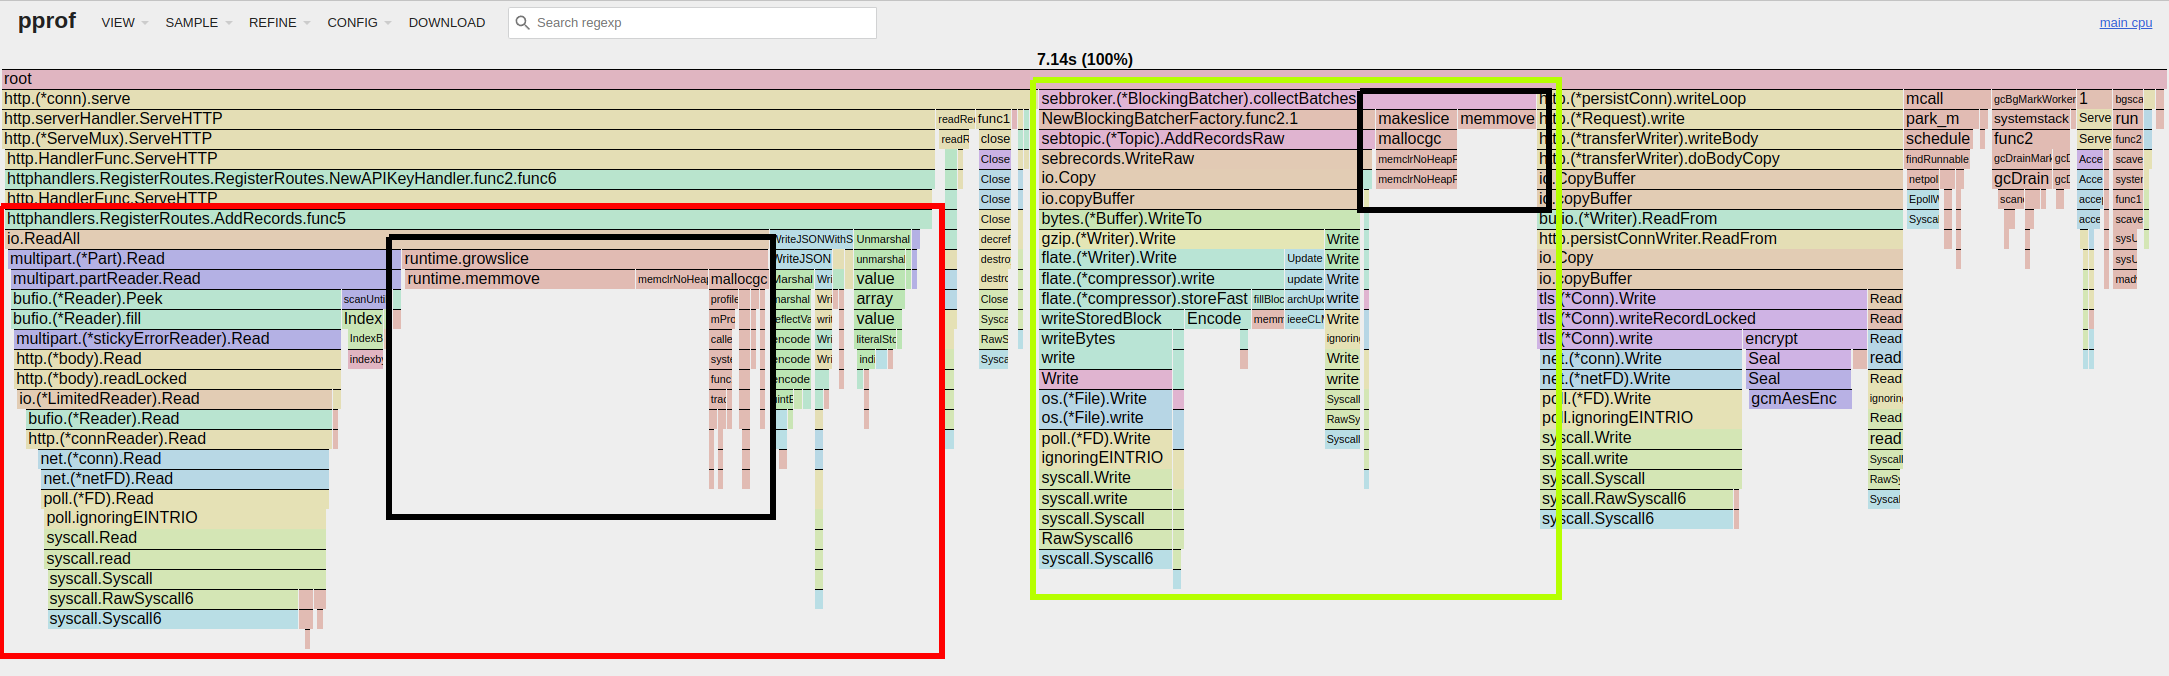
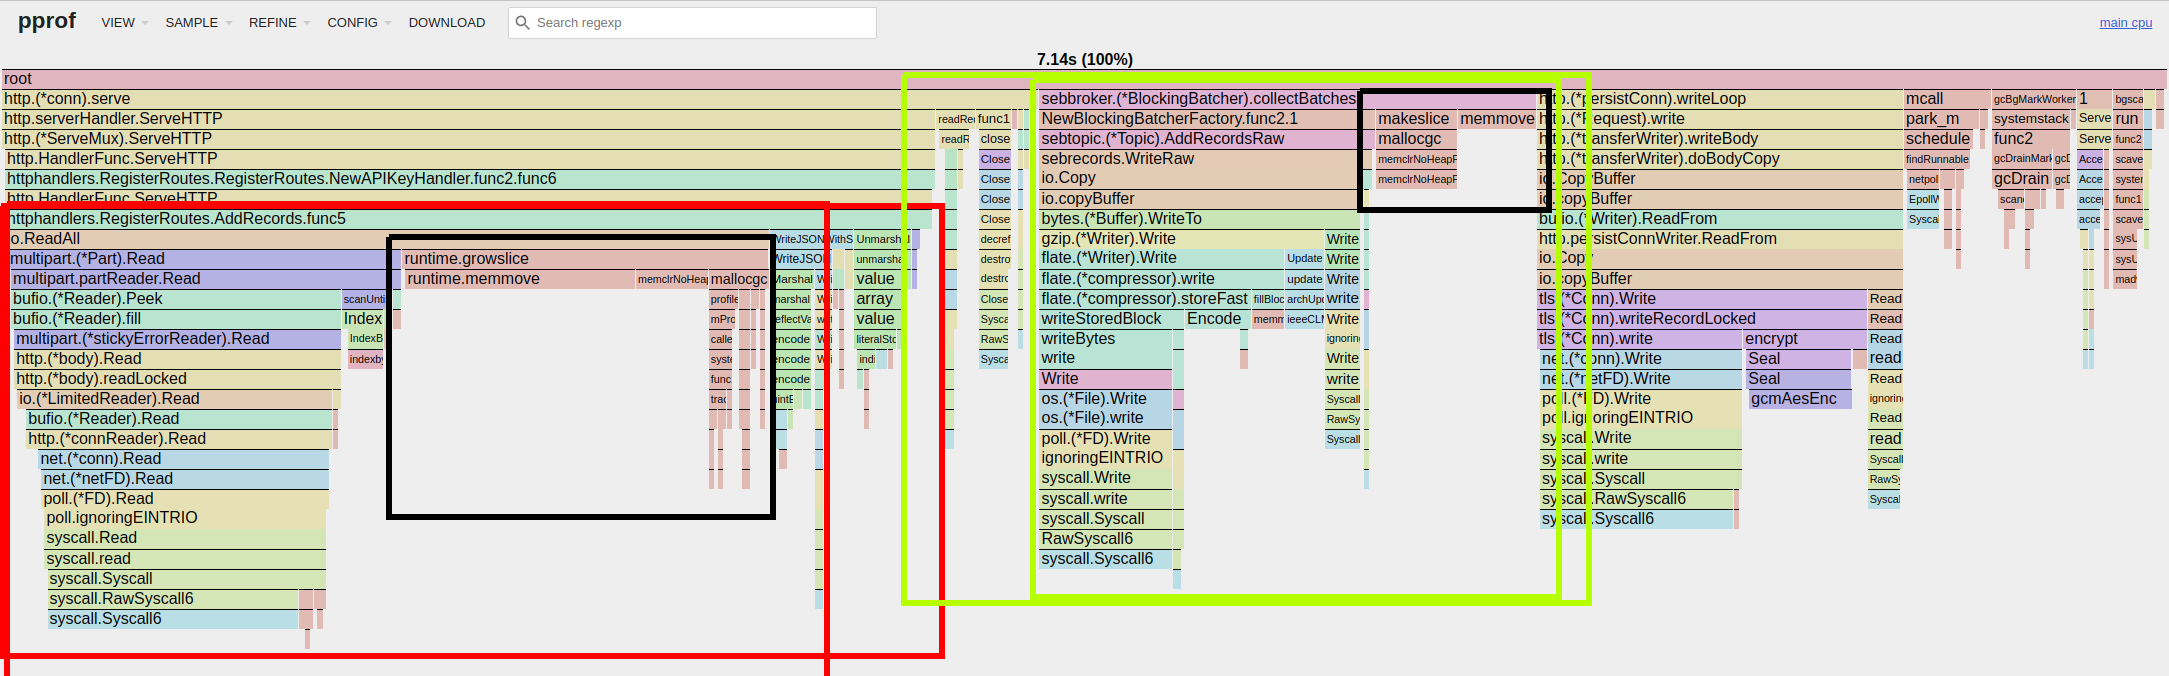
2024-09-10: read optimizations

Changed region(s): [[0.4016, 0.8698, 0.7414, 0.9009], [0.4016, 0.0932, 0.7414, 0.1243]]

diff --git a/_posts/2024-09-10-seb-tiger-style-read-path.md b/_posts/2024-09-10-seb-tiger-style-read-path.md
@@ -1,0 +1,225 @@
+---
+layout: post
+title:  "Simple event broker: data serialization is expensive"
+date:   2024-09-10 15:25:00 +0200
+tags: [event-broker, benchmarking, seb, performance]
+published: true
+---
+
+In the [last post](/2024/07/10/seb-tiger-style/) I described my weekend project of using advice from [Tiger Style](https://github.com/tigerbeetle/tigerbeetle/blob/main/docs/TIGER_STYLE.md) to optimize the write path of [Seb](https://github.com/micvbang/simple-event-broker).
+Here, we found that data serialization and memory allocations were big contributors to the application being slower than it could be, and profiling helped us identify places on the write path where batching and buffer reuse could greatly improve the throughput. With a few small changes, we doubled the number of records that Seb can write to disk per second!
+
+In this post we're going to use those learnings as a guide to do the same thing on the read path. In order for the posts not to be almost identical, this time we'll focus on how seemingly minor changes to function signatures can have major impacts on performance.
+
+## Overview
+
+Since we already covered how to record performance profiles in the last post, we'll skip it here. Instead we'll go directly to a high-level picture of Seb's read path, and then look at a profile of the code (at [19a5bde1](https://github.com/micvbang/simple-event-broker/tree/19a5bde1f5359b2b1c556bb7df288273a6b416d8)).
+
+A high-level overview of Seb's read path:
+
+![High-level overview of Seb's read path](/static/posts/2024-09-10-seb-read-performance/architecture_seb_read_path.png)
+
+Here, we see that the read path starts with an incoming HTTP request which is handled by an [HTTP handler](https://github.com/micvbang/simple-event-broker/blob/19a5bde1f5359b2b1c556bb7df288273a6b416d8/internal/httphandlers/getrecords.go#L22) `(1)` and sent to the [Broker](https://github.com/micvbang/simple-event-broker/blob/19a5bde1f5359b2b1c556bb7df288273a6b416d8/internal/sebbroker/broker.go#L26) `(2)`. The Broker ensures that a relevant instance of [Topic](https://github.com/micvbang/simple-event-broker/blob/19a5bde1f5359b2b1c556bb7df288273a6b416d8/internal/sebtopic/topic.go#L38) exists and hands it the request `(3)`. The Topic then checks to see if the requested records are available in the locally cached batches `(3.1)`, fetching any missing batches from S3 `(3.2)` and caching them on disk. The Topic then finally uses the [Parser](https://github.com/micvbang/simple-event-broker/blob/19a5bde1f5359b2b1c556bb7df288273a6b416d8/internal/sebrecords/records.go#L81) to extract the requested records `(4)`, which might span one or more files in the cache. Finally it sends the retrieved records all the way back up the stack, where the result is turned back into an HTTP response and sent back over the network to the caller.
+
+It's important to mention here that, just like was the case on the write path, the HTTP response is encoded using multipart form-data with one part per record. As was evident when we looked at the write path, this is highly inefficient. To give you an intuition of what multipart form-data looks like, here's an example HTTP request:
+
+```
+POST /records HTTP/1.1
+Host: localhost:51313
+Content-Type: multipart/form-data;boundary="boundary"
+
+--boundary
+Content-Disposition: form-data; name="0"
+
+record-0-data
+--boundary
+Content-Disposition: form-data; name="1"
+
+record-1-data
+--boundary--
+```
+
+## Profiling
+
+Like we did in the last post, we'll use Go's excellent profiling tools to identify where Seb is spending its time on the CPU. In order to do this, we need to put some load on the system. The first task of this project therefore was to implement a simple read benchmark that is easy to run. I won't go into details of the implementation here, but I will note that having a tool to generate reliable, consistent load on your system makes performance optimizations _so_ much easier to do, and gives us much better odds of making actual improvements. I highly recommend investing the time in building a tool like this for your next project!
+
+While using the read benchmark to put some load on the system, I recorded a profile of Seb which resulted in the following flame graph:
+
+![Profiling Seb, retrieving records, before](/static/posts/2024-09-10-seb-read-performance/profiling-mime-multipart-slow.png)
+
+I've highlighted multipart form-data formatting-related code using red boxes, and memory-related operations (allocations, copying, and garbage collection) using black boxes. We saw exactly this behavior on the write path in the last post as well, so if you read that one this result should come as no surprise. What we're seeing is that we're spending loads of time writing all of the records according to the multipart form-data format, generating a lot of garbage while doing so.
+
+Looking at the left-most red box on the flame graph, we see that most of its time is spent in `Syscall6`. Going a bit up the stack, we see that this originates from `net.(*conn).Write`, i.e. writing bytes to a network socket. We want to get a response to our callers, so this work looks productive and isn't something we're trying to eliminate.
+
+Looking at the right-most red box, we see that `multipart.(*Writer).CreateFormField` spends a lot of time serializing our HTTP payload using `fmt.Fprintf` and `fmt.Sprintf`, both of which causes a lot of allocations and creates tons of work for the garbage collector.
+
+Lastly, looking at the black boxes in the middle of the flame graph, we see that `sebtopic.(*Topic).ReadRecords` spends a _lot_ of time allocating and copying bytes around. If you look carefully, you can see that `(*Parser).Records` _does disk IO_. And, oh my, although disk IOs are one of the most expensive operations we can do, they take up only ~25% of the the time spent in that function!
+
+Now that we have a better understanding of where Seb is spending its precious time on the CPU, we can focus on how to improve it for the better.
+
+## Reflecting
+
+Like we learned in the previous post, data serialization has a major impact on performance. It not only takes time to translate data between formats, it also requires us to allocate and copy bytes between buffers, creating a lot of garbage that has to be cleaned up.
+
+In the previous post we worked backwards from Seb's internal on-disk format and redefined the user-facing API such that it uses the same format, thereby avoiding almost all of the serialization-related work we're now seeing on the read path. Instead of using multipart form-data, encoding one field per record, if we instead serialize it as one buffer containing all record data and one list containing the lengths of each record in that buffer, we can avoid a lot of work.
+
+I've visualized the difference between the two formats below:
+
+![Payload serialization, multipart form-data vs raw data and lengths](/static/posts/2024-09-10-seb-read-performance/multipart-form-encoding-to-pointers-and-raw.png)
+
+Looking at the flame graph again, what would it look like if we removed all of the serialization and unproductive allocations that we currently see?
+
+Assuming that we don't have to restructure data but can basically just give the caller the raw bytes, we can just read it from disk and pass it up the stack. This should remove all of the unproductive allocations we saw.
+
+Since the format shown above only requires us to create two form fields instead of `N` (one per record), we would also expect the time spent in `CreateFormField` to almost go away.
+
+I've visualized what these changes might look like, with blue boxes representing avoidable work:
+
+![Profiling Seb, retrieving records, work to avoid](/static/posts/2024-09-10-seb-read-performance/profiling-mime-multipart-slow-parts-avoid.png)
+
+When we disregard the contents of the blue boxes in the above flame graph, we see that we're almost left with only the essential (and most expensive!) operations: reading from disk and writing to the network.
+
+This is all well and good in theory, but how do we achieve this in code?
+
+## Fixing
+Although the specific changes in implementation could be interesting to look at, we will continue to look at this using only the high-level information we already know; I want to highlight that the changes in execution speed we're going to see from the changes described here don't have as much to do with the exact implementation as it has to do with the structure; the flow of data. Both of course play a role, but I think the most important learnings in this case can be had by focusing on just the structure.
+
+
+If you're interested in digging into implementation details, I suggest you look at the source: [this is where we start](https://github.com/micvbang/simple-event-broker/tree/19a5bde1f5359b2b1c556bb7df288273a6b416d8), [this is where we end](https://github.com/micvbang/simple-event-broker/tree/d0e3cd56e97e43d68d9df74bc47424a4572cb176).
+
+
+In the first diagram of this post, we saw the functions that make up the read path. Here, we see it again, this time with function signatures:
+
+```
+type Batch struct {
+	Sizes []uint32
+	Data  []byte
+}
+
+func (s *Broker) GetRecords(ctx context.Context, topicName string, offset uint64, maxRecords int, softMaxBytes int) ([][]byte, error)
+
+func (s *Topic) ReadRecords(ctx context.Context, offset uint64, maxRecords int, softMaxBytes int) (sebrecords.Batch, error)
+
+func (rb *Parser) Records(recordIndexStart uint32, recordIndexEnd uint32) (Batch, error)
+```
+
+At the bottom of the read path, we see that `Parser.Records()` returns a `Batch`. Seeing this is at the bottom of the call hierarchy, the returned `Batch`es must be allocated within `Parser.Records()` itself. From the description at the beginning of the post, we know that `Topic.ReadRecords()` will call `Parser.Records()` once per file that we need to read records from. This means that, with the current functino signature, we will see at least one allocation per file we need to read from. Depending on the number of records we need to read, this could cause many allocations.
+
+We are looking to eliminate allocations, so how do we avoid the current requirement that `Parser.Records()` must allocate a `Batch`? By giving `*Batch` as an argument instead of requiring it as a return value:
+
+```
+func (rb *Parser) Records(batch *Batch, recordIndexStart uint32, recordIndexEnd uint32) error
+```
+
+The small change we just made to the signature has a very important impact: we moved the responsibility of allocating `Batch` one level up the stack, from `Parser.Records()` to `Topic.ReadRecords()`. We can of course do this same trick all the way up the stack, which changes all signatures to the following:
+
+```
+func (s *Broker) GetRecords(ctx context.Context, batch *sebrecords.Batch, topicName string, offset uint64, maxRecords int, softMaxBytes int) error
+
+func (s *Topic) ReadRecords(ctx context.Context, batch *sebrecords.Batch, offset uint64, maxRecords int, softMaxBytes int) error
+
+func (rb *Parser) Records(batch *Batch, recordIndexStart uint32, recordIndexEnd uint32) error
+```
+
+This minor change has moved the responsibility of allocating `Batch`es from the bottom of the stack to the top. It's now the responsibility of the code that calls `Broker.GetRecords()` (in our case an HTTP handler) to provide a pre-allocated batch to be used for the request. As long as the given `*Batch` is large enough to satisfy the request, we now do at most _one_ allocation per request, regardless of how many files we need to read data from. And, with allocations being made at the top of the call stack, it's now possible to reuse buffers across requests and thereby do the same job with much fewer allocations.
+
+To show you what this could look like from the caller's perspective, here's a simplified version of the HTTP handler which now retrieves a `*Batch` from a pool of pre-allocated `*Batches` and passes it to `Broker.GetRecords()`:
+
+```
+type RecordsGetter interface {
+	GetRecords(ctx context.Context, batch *sebrecords.Batch, topicName string, offset uint64, maxRecords int, softMaxBytes int) error
+}
+
+func GetRecords(log logger.Logger, batchPool *syncy.Pool[*sebrecords.Batch], rg RecordsGetter) http.HandlerFunc {
+	return func(w http.ResponseWriter, r *http.Request) {
+		// do http stuff
+
+		batch := batchPool.Get()
+		defer batchPool.Put(batch)
+
+		err := rg.GetRecords(r.Context(), batch, topicName, offset, maxRecords, softMaxBytes)
+		if err != nil {
+			// handle various errors
+		}
+
+		err = httphelpers.RecordsToMultipartFormDataHTTP(mw, batch.Sizes, batch.Data)
+		if err != nil {
+			// handle various errors
+		}
+	}
+}
+
+```
+
+Since the write path already uses the same structure, these changes also makes it possible to share our pool of buffers between the read- and write paths!
+
+Additionally, since Seb [limits how many HTTP requests it wants to handle in parallel](https://github.com/micvbang/simple-event-broker/blob/master/cmd/seb/app/serve.go#L105), an extra benefit is that it's now possible to allocate all buffers that the program needs at startup! This of course comes with some drawbacks, e.g. it puts hard limits on the size of payloads, but it also comes with some superhero-like benefits: with all buffers allocated at startup, we can now determine _at deployment time_ how much memory the application will use[^0]. If the application starts at deployment, we can be confident that _it cannot go out-of-memory!_ This sounds surreal and is an absolute superpower when doing server planning and provisioning. This one took a few days to sink in for me, but once I realized the power of it, I couldn't stop thinking about how powerful that is.
+
+Alright. With the above changes implemented, it's time to put some pressure on the system again and record a new profile. The new recording resulted in the following flame graph:
+
+
+![Profiling Seb, retrieving records, after](/static/posts/2024-09-10-seb-read-performance/profiling-mime-multipart-fast.png)
+
+Oh my, this is even better than I dared hope for! We've eliminated basically all of the serialization and garbage collection overhead, even removing a large `memmove` in `multipart.(*part).Write` that I wasn't expecting to get rid of.
+
+On the new flame graph we see that we're almost literally down to spending time only in `Syscall6`. Clicking around, I can tell you that the flame graph reports that `Syscall6` now takes up 91.9% of the total runtime! Approximately half of it is for reading from disk, and the other half is for writing to the network.
+
+With the very promising changes we saw on the profiles, we're ready to run some benchmarks.
+
+## Benchmarking digression
+
+Before jumping to benchmarking, I want to digress slightly and note something I've learned the hard way (many times by now, so maybe I never really learned it...)
+
+When benchmarking you should _always_ record and safely store your benchmark parameters. And, importantly, _include the version of the code that was used!_ This lets you know exactly which code and configuration gave you the results you're looking at. This is incredibly valuable when you inevitably make more changes to the code than you expected, as it allows you to understand how (or even if) you can sensibly compare different runs of the benchmarks. If you fail to do this, you're destined to have to re-run all of your benchmarks *just this last time* (for the 7th time.) The best strategy I found for remembering to do this is to just dump the benchmark's parameters along with the results. The parameters are honestly just as important and valuable as the results themselves!
+
+
+## Benchmarking
+
+The benchmarks run for this post were run on my laptop, a Lenovo T14, plugged in to the wall, with the following specs:
+
+- AMD Ryzen 7 PRO 4750U
+- Micron MTFDHBA512TDV 512GB NVMe drive
+- 48 gigs of RAM
+
+We're doing no network requests (all files are cached locally), so the NIC should be irrelevant. Also, since we're doing buffered IO on a 1GiB records, we expect reads to be mostly served from the page cache.
+
+The benchmarks were run with the following command: 
+
+```
+seb benchmark-read --local-broker=true -r 5 -w 16 --batches=4096 --record-size=1024 --records-per-batch=256 --records-per-request=1024 --requests 20000
+```
+
+This command runs 5 repetitions of a job that utilizes 16 workers to send a total of 20.000 requests. Each request asks for 1024 records (1KiB each, so 1MiB/request), for a total of ~19.5GiB requested. The starting offset for each request is selected uniformly at random from a set of pre-inserted and cached records. The on-disk batch size is 256 records/file, so each request will have to open and read 4 or 5 different files.
+
+And, as summarized by the benchmark tool:
+
+```
+Benchmark config:
+Num workers:            16
+Num requests:           20000                                 
+Records/request:        1024                                 
+Record size:            1KiB (1024B)                                 
+Bytes/request:          1MiB (1048576B)
+Total bytes requested:  19.5GiB (20971520000B)
+```
+
+Note: this workload doesn't really replicate a production scenario, where we would probably expect something like a Poisson distribution heavily skewed towards the most recent records. Also, we're not looking to understand the absolute performance of Seb here but are just looking for the relative impact of our changes.
+
+Without further ado, the results of the benchmarks:
+
+
+| code                 |   seconds/run            |           records/second     |     improvement     |
+|:---------------------|:------------------------:-:----------------------------:|--------------------:|
+| [reference](https://github.com/micvbang/simple-event-broker/tree/19a5bde1f5359b2b1c556bb7df288273a6b416d8)            |   35.82 / 35.32 / 37.21  |      572k / 550k / 580k        |            -        |
+| [update](https://github.com/micvbang/simple-event-broker/tree/d0e3cd56e97e43d68d9df74bc47424a4572cb176)               |   9.76 / 9.50 / 10.30  |      2099k / 1987k / 2154k   |          3.67x      |
+
+Whoop, a 3.67x improvement; we can now run the same workload in about 1/4 of the time!
+
+For the second time we're learning that data serialization and unnecessary memory operations have a _major_ impact on performance. By changing the user-facing interface to match the format that Seb wants the data to be in internally, we've removed a lot of work and with it a lot of allocations and memcopying. By using simple tools and comparatively small refactorings, we're seeing a _massive_ 3.67x payoff in performance. Awesome!
+
+Yet again I'll end my post by tipping my hat giving a big THANK YOU to [Jorak Dirk Greef](https://x.com/jorandirkgreef) at TigerBeetle and [Dominik Tarnov](https://x.com/DominikTornow) at Resonate for sharing all of their knowledge and helping to light a fire in the systems software community!
+
+
+## Footnotes
+
+[^0]: this isn't entirely accurate; I haven't eliminated all allocations from Seb yet. But the _vast_ majority of memory used _is_ coming from these buffers, so the overall point is still valid.
